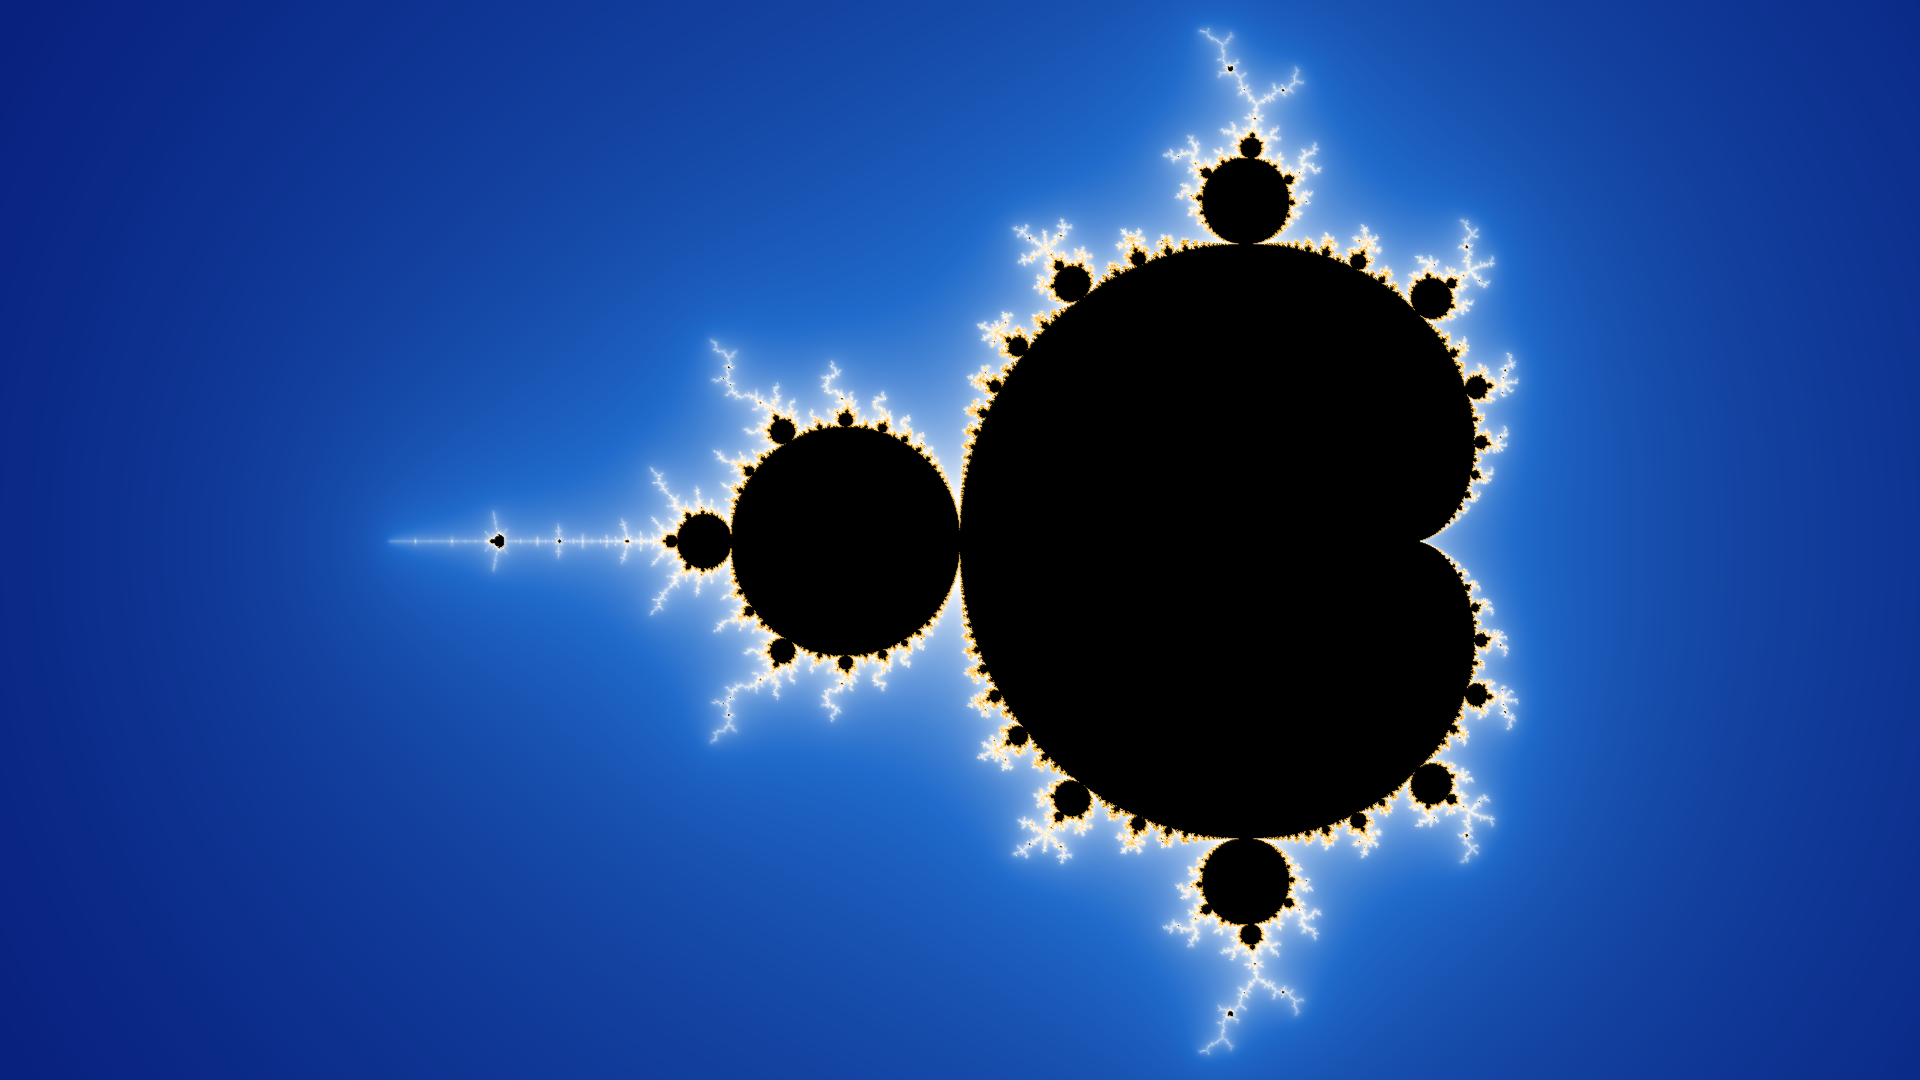
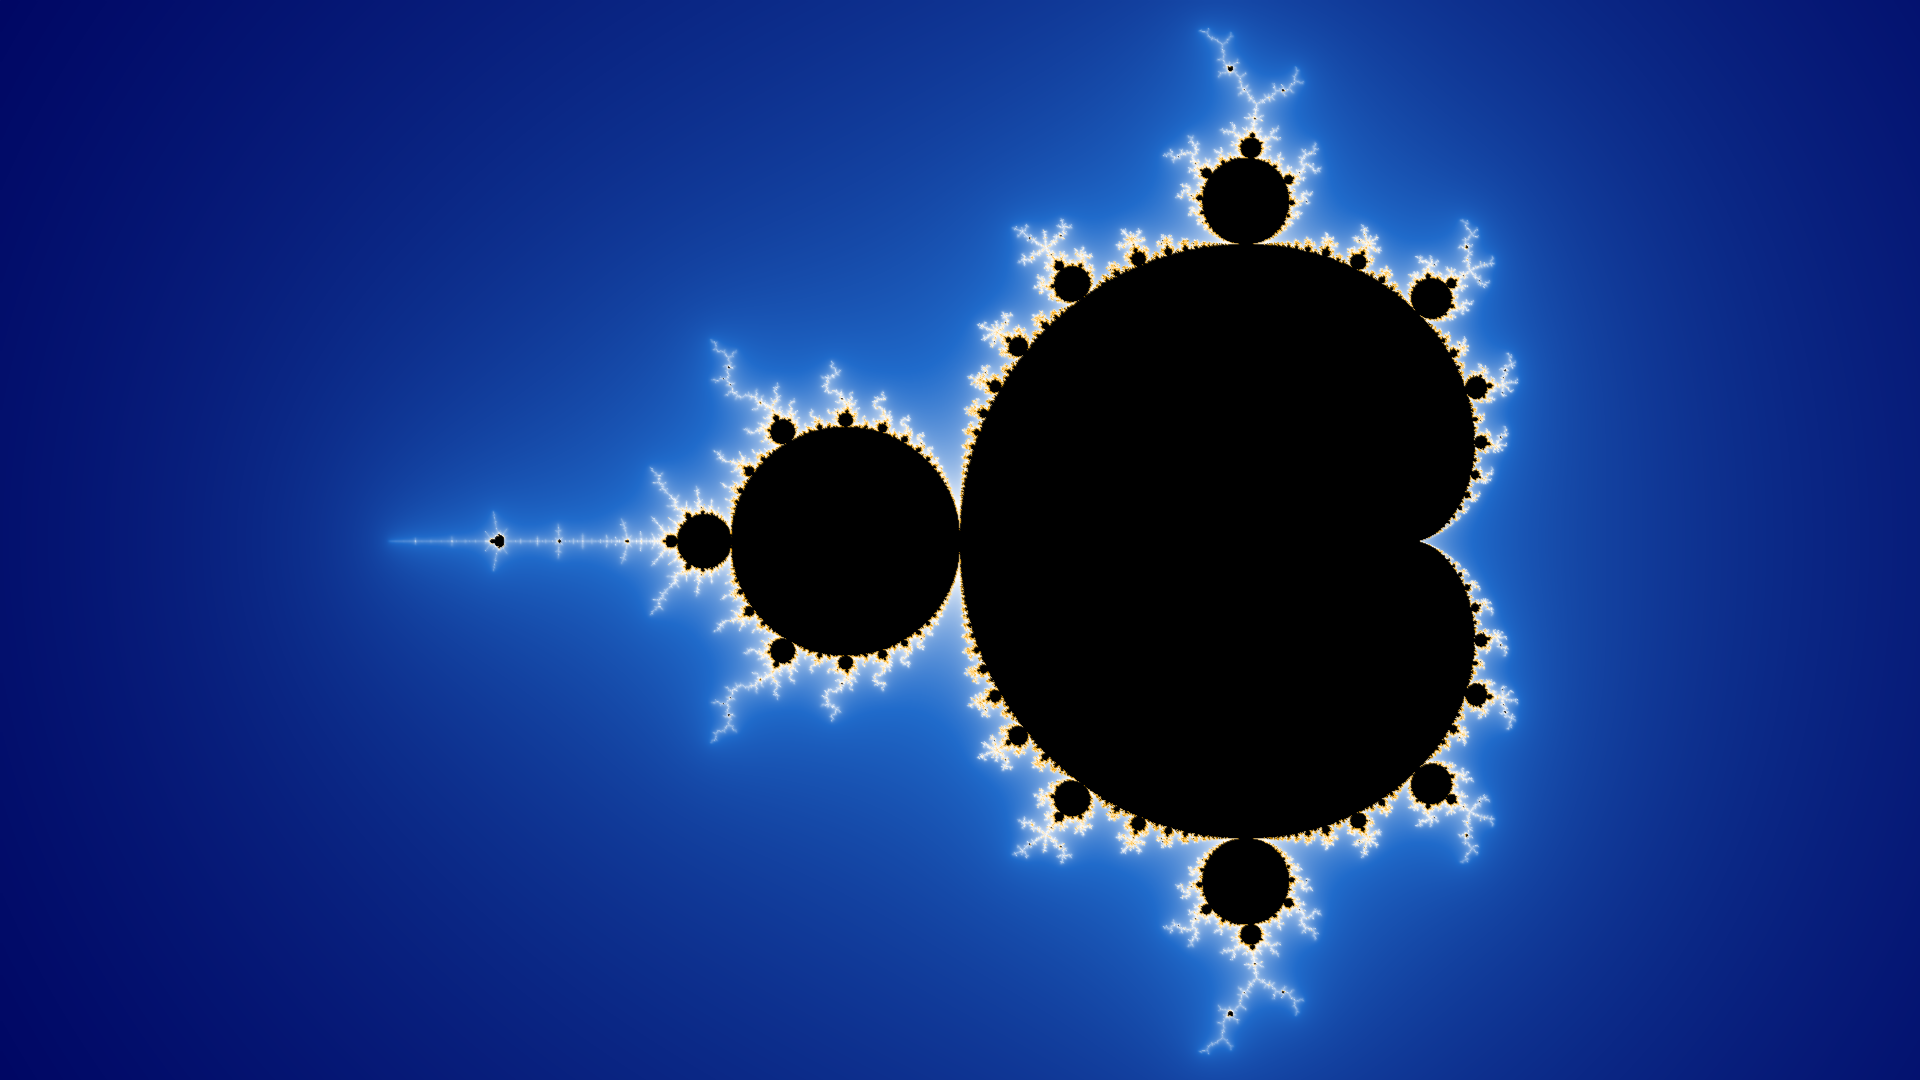
Adjusted coloring scale

Changed region(s): [[0.0, 0.0, 0.2812, 1.0], [0.1875, 0.0306, 0.8125, 0.9778], [0.875, 0.0, 1.0, 1.0]]

diff --git a/models/image.py b/models/image.py
@@ -1,17 +1,16 @@
 import os.path
-import time
 
-import joblib
+from joblib import Parallel, delayed
 from matplotlib import pyplot as plt
 from matplotlib.collections import PolyCollection
 
 from models.cell import Cell
+from utils import run_and_time
 
 
 class Image:
 
-    def __init__(self, image_width, image_height, cell_size, center, plane_width, max_n_iterations, radius, colormap,
-                 filename):
+    def __init__(self, image_width, image_height, cell_size, center, plane_width):
         self._image_width = image_width
         self._image_height = image_height
 
@@ -24,46 +23,52 @@ class Image:
         self._x_bottom_left = center[0] - plane_width / 2
         self._y_bottom_left = center[1] - self._plane_height / 2
 
-        self._filename = filename
+        self._cells = None
 
-        self._cells = self._create_cells(max_n_iterations, radius, colormap)
+    def generate(self, max_n_iterations, radius, colormap, filename):
+        steps = [
+            (self._create_cells, [max_n_iterations, radius, colormap], 'Creating cells', 'Cells created'),
+            (self._compute_n_iterations, [], 'Calculating cell escape times', 'Cell escape times calculated'),
+            (self._compute_color, [], 'Coloring cells', 'Cells colored'),
+            (self._plot, [], 'Generating image', 'Image generated'),
+            (self._save, [filename], 'Saving image', 'Image saved')
+        ]
 
-    def _create_cell(self, center, max_n_iterations, radius, colormap):
-        return Cell(center, self._cell_size_in_plane, max_n_iterations, radius, colormap)
+        elapsed_time = 0
+        for function, arguments, start_string, end_string in steps:
+            elapsed_time += run_and_time(
+                function, *arguments, start_string=start_string, end_string=end_string
+            )
+        print(f'\nTotal runtime: {elapsed_time:.2f} seconds ({(elapsed_time / 60):.2f} minutes)\n\n\n')
 
     def _create_cells(self, max_n_iterations, radius, colormap):
         n_rows = int(self._image_height / self._cell_size_in_pixels)
         n_columns = int(self._image_width / self._cell_size_in_pixels)
 
-        xs = n_rows * [
-            self._x_bottom_left + (i + 0.5) * self._cell_size_in_plane for i in range(n_columns)
-        ]
-        ys = sorted(n_columns * [
-            self._y_bottom_left + (i + 0.5) * self._cell_size_in_plane for i in range(n_rows)
-        ])
+        xs = n_rows * [self._x_bottom_left + (i + 0.5) * self._cell_size_in_plane for i in range(n_columns)]
+        ys = sorted(n_columns * [self._y_bottom_left + (i + 0.5) * self._cell_size_in_plane for i in range(n_rows)])
         centers = zip(xs, ys)
 
-        start_time = time.time()
-        print('Coloring cells...', end='', flush=True)
+        self._cells = [Cell(center, self._cell_size_in_plane, max_n_iterations, radius, colormap) for center in centers]
 
-        cells = joblib.Parallel(n_jobs=-1)(
-            joblib.delayed(self._create_cell)(center, max_n_iterations, radius, colormap) for center in centers
-        )
+    def _compute_n_iterations(self):
+        results = Parallel(n_jobs=-1)(delayed(lambda cell: cell.get_n_iterations())(cell) for cell in self._cells)
+        for cell, n_iterations in zip(self._cells, results):
+            cell.n_iterations = n_iterations
 
-        elapsed_time = time.time() - start_time
-        print(f'\rCells colored. ({elapsed_time:.2f} seconds)')
+    def _compute_color(self):
+        min_n_iterations = min(cell.n_iterations for cell in self._cells)
+        results = Parallel(n_jobs=-1)(
+            delayed(lambda cell: cell.get_color(min_n_iterations))(cell) for cell in self._cells)
+        for cell, color in zip(self._cells, results):
+            cell.color = color
 
-        return cells
-
-    def generate(self):
+    def _plot(self):
         correction = 1.299
         dpi = 100
 
         plt.figure(figsize=(correction * self._image_width / dpi, correction * self._image_height / dpi), dpi=dpi)
         plt.gca().set_aspect('equal')
-
-        start_time = time.time()
-        print('Generating image...', end='', flush=True)
 
         corners = list()
         colors = list()
@@ -73,9 +78,6 @@ class Image:
             colors.append(cell.color)
 
         plt.gca().add_collection(PolyCollection(corners, color=colors, edgecolors=None))
-
-        elapsed_time = time.time() - start_time
-        print(f'\rImage generated. ({elapsed_time:.2f} seconds)')
 
         x_max = self._x_bottom_left + self._plane_width
         plt.xlim(self._x_bottom_left, x_max)
@@ -89,16 +91,8 @@ class Image:
         for spine in plt.gca().spines.values():
             spine.set_visible(False)
 
+    def _save(self, filename):
         images_directory_path = os.path.join(os.path.dirname(os.path.dirname(__file__)), 'images')
-        file_path = os.path.join(images_directory_path,
-                                 f'{self._filename} ({self._image_width}x{self._image_height}).png')
-
-        start_time = time.time()
-        print('Saving image...', end='', flush=True)
-
+        file_path = os.path.join(images_directory_path, f'{filename} ({self._image_width}x{self._image_height}).png')
         plt.savefig(file_path, bbox_inches='tight', pad_inches=0)
-
-        elapsed_time = time.time() - start_time
-        print(f'\rImage saved. ({elapsed_time:.2f} seconds)')
-
         plt.close()

diff --git a/models/cell.py b/models/cell.py
@@ -4,7 +4,6 @@ from matplotlib import colors
 
 
 class Cell:
-    __slots__ = ['_center', '_size', '_max_n_iterations', '_radius', '_colormap', '_n_iterations', '_color']
 
     def __init__(self, center, size, max_n_iterations, radius, colormap):
         self._center = center
@@ -12,15 +11,26 @@ class Cell:
         self._max_n_iterations = max_n_iterations
         self._radius = radius
         self._colormap = colormap
+        self._n_iterations = None
+        self._color = None
 
-        self._n_iterations = self._get_n_iterations()
-        self._color = self._get_color()
+    @property
+    def n_iterations(self):
+        return self._n_iterations
+
+    @n_iterations.setter
+    def n_iterations(self, n_iterations):
+        self._n_iterations = n_iterations
 
     @property
     def color(self):
         return self._color
 
-    def _get_n_iterations(self):
+    @color.setter
+    def color(self, color):
+        self._color = color
+
+    def get_n_iterations(self):
         x0, y0 = self._center
         x, y = 0, 0
 
@@ -38,8 +48,8 @@ class Cell:
 
         return iteration
 
-    def _get_color(self):
-        norm = colors.LogNorm(1, self._max_n_iterations)
+    def get_color(self, min_n_iterations):
+        norm = colors.LogNorm(min_n_iterations, self._max_n_iterations)
         return self._colormap(norm(self._n_iterations))
 
     def get_corners(self):

diff --git a/main.py b/main.py
@@ -1,27 +1,15 @@
-from sympy import divisors
-
 from config import *
 from models.image import Image
-
-
-def check_cell_size():
-    common_divisors = set(divisors(image_width)).intersection(divisors(image_height))
-
-    if not cell_size in common_divisors:
-        valid_divisors = ', '.join(map(str, sorted(common_divisors)))
-        raise ValueError(f'The cell size ({cell_size}) is not valid for image size {image_width}x{image_height}.\n'
-                         f'The only valid cell sizes are {valid_divisors}.')
+from utils import check_cell_size
 
 
 def main():
     try:
         check_cell_size()
 
-        image = Image(
-            image_width, image_height, cell_size, center, plane_width, max_n_iterations, radius, colormap, filename
-        )
-        image.generate()
-
+        for center, plane_width, filename in zip(centers, plane_widths, filenames):
+            image = Image(image_width, image_height, cell_size, center, plane_width)
+            image.generate(max_n_iterations, radius, colormap, filename)
     except ValueError as error:
         print(error)
 

diff --git a/utils.py b/utils.py
@@ -1,0 +1,23 @@
+import time
+
+from sympy import divisors
+
+from config import image_width, image_height, cell_size
+
+
+def check_cell_size():
+    common_divisors = set(divisors(image_width)).intersection(divisors(image_height))
+
+    if not cell_size in common_divisors:
+        valid_divisors = ', '.join(map(str, sorted(common_divisors)))
+        raise ValueError(f'The cell size ({cell_size}) is not valid for image size {image_width}x{image_height}.\n'
+                         f'The only valid cell sizes are {valid_divisors}.')
+
+
+def run_and_time(function, *arguments, start_string, end_string):
+    start_time = time.time()
+    print(f'{start_string}...', end='', flush=True)
+    function(*arguments)
+    elapsed_time = time.time() - start_time
+    print(f'\r{end_string}. ({elapsed_time:.2f} seconds)')
+    return elapsed_time

diff --git a/config.py b/config.py
@@ -4,11 +4,17 @@ image_width = 1920
 image_height = 1080
 cell_size = 1
 
-center = (-0.75, 0)
-plane_width = 4.2
+centers = [(-0.75, 0),
+           (0.16125, 0.638438),
+           (-0.743517833, 0.127094578)]
+plane_widths = [4.2,
+                0.05,
+                0.019]
 
 max_n_iterations = 1000
 radius = 2 ** 8
 colormap = Colormap.DEFAULT.value
 
-filename = 'Default'
+filenames = ['Default',
+             'Focused',
+             'Seahorse']

diff --git a/README.md b/README.md
@@ -3,3 +3,5 @@
 ![Mandelbrot set](images/Default%20(1920x1080).png)
 
 ![Focused](images/Focused%20(1920x1080).png)
+
+![Seahorse](images/Seahorse%20(1920x1080).png)
